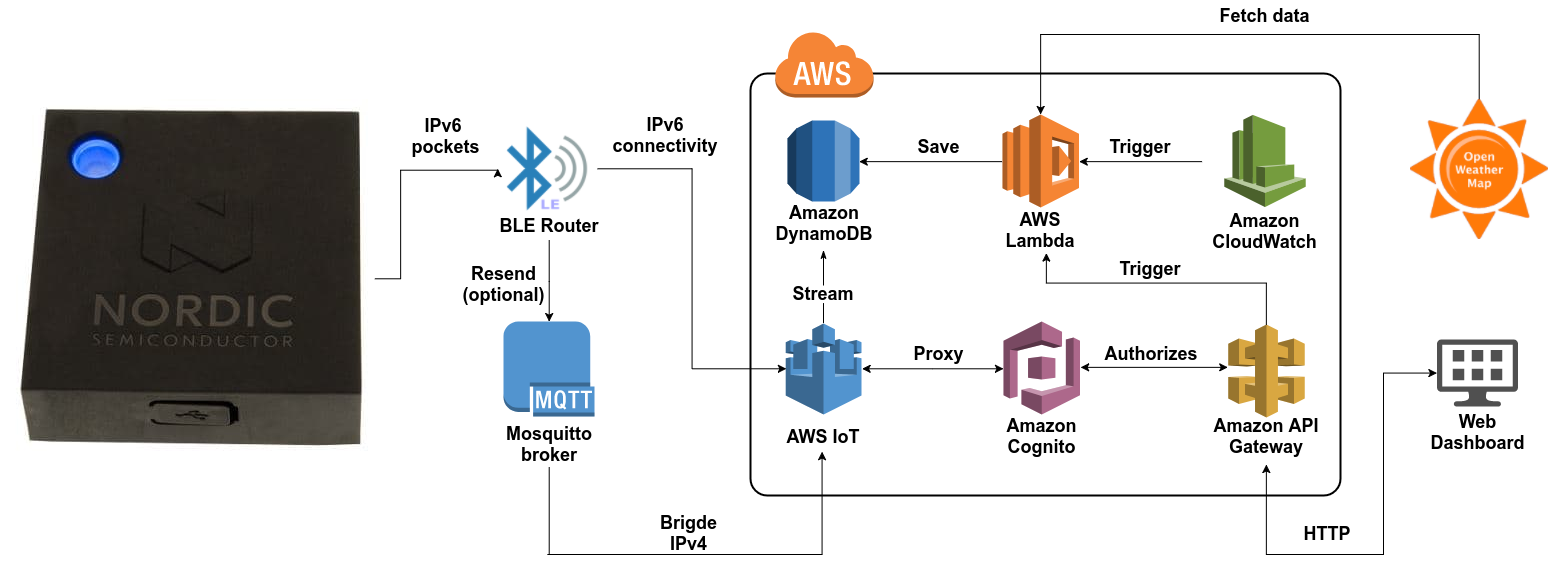
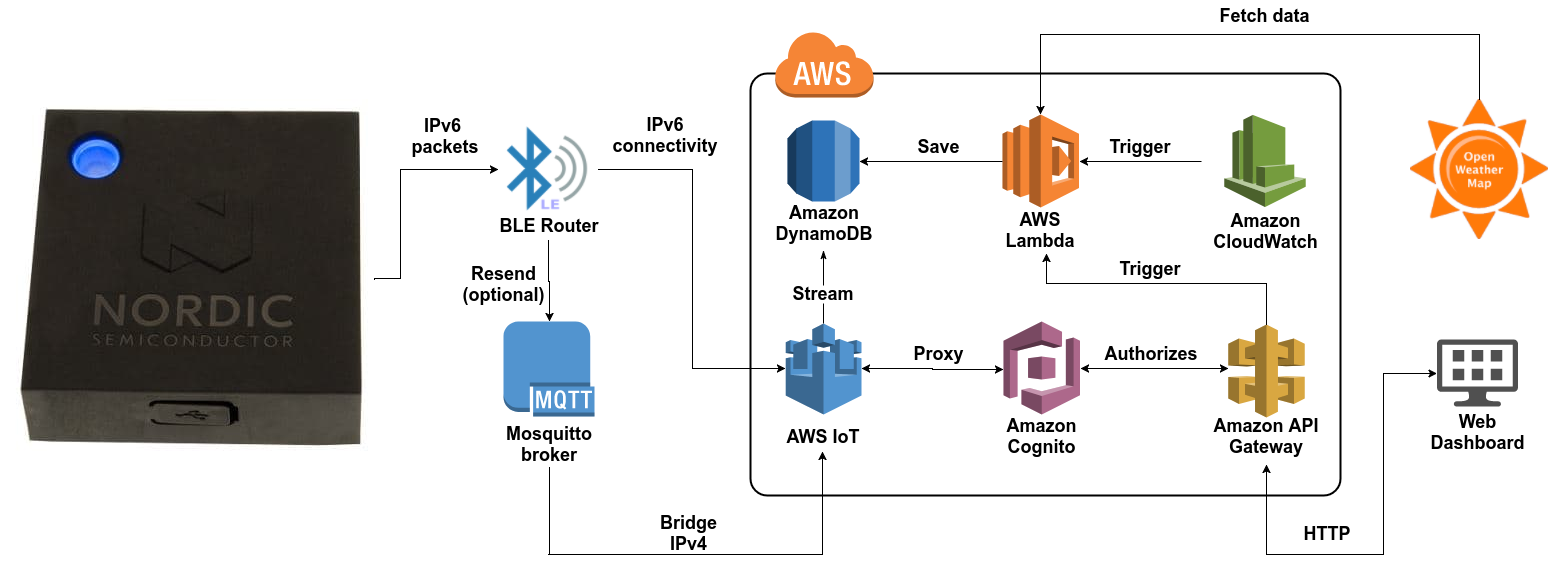
Fix grammar

diff --git a/docs/DEVICE.md b/docs/DEVICE.md
@@ -28,7 +28,7 @@ The demo device is [Nordic Thingy:52](https://www.nordicsemi.com/eng/Products/No
 
 1. Clone repo.
 1. (Optional) Setup local [BLE MQTT Router](./ROUTER.md) 
-1. Import Project in to Eclipse IDE from [firmware](../firmware) directory.
+1. Import Project into Eclipse IDE from [firmware](../firmware) directory.
 1. Get MQTT broker ipv6 address.
 1. Local broker address shall be set in [main.c](../firmware/project/pca20020_s132/main.c). <p align="left"><img src="./assets/brocker-addr.png" atl="Brocker addr" /></p> 
 1. Execute Make target `erase_all`.
@@ -40,14 +40,14 @@ The demo device is [Nordic Thingy:52](https://www.nordicsemi.com/eng/Products/No
 _Located in main.c_
 
 1. BLE connection settings and mqtt connection setting shall be set here: <p align="left"><img src="./assets/firmware-settings.png" atl="Brocker addr" /></p> 
-1. Debug output can be seen via Segger RTT (real time terminal): <p align="left"><img src="./assets/rtt.png" atl="Segger RTT" /></p>
+1. Debug output can be seen via Segger RTT (real-time terminal): <p align="left"><img src="./assets/rtt.png" atl="Segger RTT" /></p>
 
 ### J-Link Connection Setup
 
 1. Plug-in Segger to USB and Nordic to Segger via Oumex connector.
-1. Run in command line: `JLinkExe`.
-1. Execute in J-Link shell: `connect`.
-1. Type `NRF52832_XXAA` as device name.
+1. Run on the command line: `JLinkExe`.
+1. Execute in the J-Link shell: `connect`.
+1. Type `NRF52832_XXAA` as the device name.
 1. Select target interface: `SWD`.
 1. Specify target interface speed 4000 kHz.
 

diff --git a/README.md b/README.md
@@ -1,9 +1,9 @@
 Nordic Thingy Demo Platform
 =============
 
-The platform demonstrates an [Nordic Thingy:52](https://www.nordicsemi.com/eng/Products/Nordic-Thingy-52) and [AWS](https://aws.amazon.com) integration use case.
-The [back-end and front-end](docs/AWS.md) is entirely powered by [Amazon Web Services](https://aws.amazon.com/).
-The [device](./docs/DEVICE.md) send metrics over MQTT (IPv6) to AWS IoT via [BLE MQTT Router](docs/ROUTER.md).
+The platform demonstrates a [Nordic Thingy:52](https://www.nordicsemi.com/eng/Products/Nordic-Thingy-52) and [AWS](https://aws.amazon.com) integration use case.
+The [back-end and front-end](docs/AWS.md) are entirely powered by [Amazon Web Services](https://aws.amazon.com/).
+The [device](./docs/DEVICE.md) sends metrics over MQTT (IPv6) to AWS IoT via [BLE MQTT Router](docs/ROUTER.md).
 
 You can see the live demo [here](http://nordic-dev-serverless-site-s3.s3-website.eu-central-1.amazonaws.com/#/dashboard).
 
